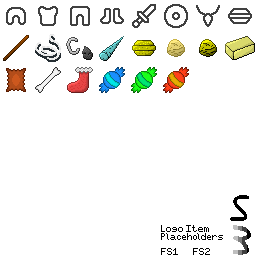
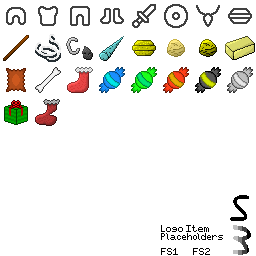
Turn 52 Extras
- added more icons
- changed weather icon to use the new snowing icon instead of a raining icon
- added more items, including items meant to be used after christmas
- it's 2am i'm going to bed

Changed region(s): [[0.0, 0.375, 0.25, 0.5], [0.875, 0.25, 1.0, 0.375], [0.75, 0.25, 0.875, 0.375]]

diff --git a/js_lists/equipList.js b/js_lists/equipList.js
@@ -233,8 +233,11 @@ var equiplist = [ //[name, css class for icon, description, source, bonuses]
     ["7 Fuel Units", "fuel_outline", "This recipe requires <b>7</b> units of fuel.", "", ""], //231
     ["8 Fuel Units", "fuel_outline", "This recipe requires <b>8</b> units of fuel.", "", ""], //232
     ["Christmas Stocking", "stocking", "A stocking for Christmas. Hang it up during your turn to get extra rewards!", "Christmas", "Hang it up"], //233
-    ["Effect Candy", "blue_candy", "A small piece of candy, wrapped in a blue wrapper. Eat it to gain a random positive effect!", "Christmas", "Consume for one of the following: Regen, Attack Up, Defense Up"], //234
-    ["Skill Candy", "green_candy", "A small piece of candy, wrapped in a green wrapper. Eat it to gain 300% in a random skill!", "Christmas", "Consume for 300% in a random skill you have that is below level 5"], //235
-    ["Item Candy", "red_candy", "A small piece of candy, wrapped in a red wrapper. Eat it to gain a random item!", "Christmas", "Consume for a random item (see Info)"], //236
+    ["Effect Candy", "blue_candy", "A small piece of candy, wrapped in a blue wrapper. Eat it to gain a random positive effect!", "Events", "Consume for one of the following: Regen, Attack Up, Defense Up"], //234
+    ["Skill Candy", "green_candy", "A small piece of candy, wrapped in a green wrapper. Eat it to gain 300% in a random skill!", "Events", "Consume for 300% in a random skill you have that is below level 5"], //235
+    ["Item Candy", "red_candy", "A small piece of candy, wrapped in a red wrapper. Eat it to gain a random item!", "Events", "Consume for a random item (see Info)"], //236
     ["Mystery Gift", "gift_box", "A gift in a box. It could be anything!", "Item Candy", "Open it to gain a random item out of all the items currently in the game"], //237
+    ["Time Candy", "black_candy", "A small piece of candy, wrapped in a black and yellow wrapper. If you have this in your inventory, you'll be allowed three posts in a turn, instead of two!", "Unknown", "Holding this item allows one extra post in a turn (consumed during extra post)"], //238
+    ["Old Candy", "gray_candy", "A small piece of old candy. The color on the wrapper has faded away, so you can't tell what kind of candy this was.", "Old Stocking", "Consume for a reduced version of a different candy's effect"], //239
+    ["Old Christmas Stocking", "old_stocking", "An old stocking for Christmas. It's too late to hang it up, but there might still be something inside...", "Post-Christmas", "Hang it up"], //233
 ]

diff --git a/icons.css b/icons.css
@@ -911,6 +911,22 @@ span.small_icon {
     background-image: url("Icons/Exported/misc_sheet.png");
     background-position: -160px -64px;
 }
+.black_candy {
+    background-image: url("Icons/Exported/misc_sheet.png");
+    background-position: -192px -64px;
+}
+.gray_candy {
+    background-image: url("Icons/Exported/misc_sheet.png");
+    background-position: -224px -64px;
+}
+.gift_box {
+    background-image: url("Icons/Exported/misc_sheet.png");
+    background-position: -0px -96px;
+}
+.old_stocking {
+    background-image: url("Icons/Exported/misc_sheet.png");
+    background-position: -32px -96px;
+}
 /* info (large) */
 .yes, .passed {
     background-image: url("Icons/Exported/info_sheet.png");
@@ -968,6 +984,10 @@ span.small_icon {
 .rain, .rainy {
     background-image: url("Icons/Exported/info_sheet.png");
     background-position: -240px -16px;
+}
+.snow, .snowy {
+    background-image: url("Icons/Exported/info_sheet.png");
+    background-position: -208px -32px;
 }
 .day {
     background-image: url("Icons/Exported/info_sheet.png");

diff --git a/3/allpages.js b/3/allpages.js
@@ -7,7 +7,7 @@ var headerLinks = {
     "3": [["Info", "info"],["Inventories", "inventories"],["Stats", "stats"],["Structures", "structures"],["Voting", "voting"],["Gardens", "gardens"],["Quests","quests"],["Mobs","mobs"]],
     "i": [["All Items", "creative"],["Crafting", "crafting"],["Encyclopedia", "help"]]
 }
-var timeboxInfo = [52, "dawn", "rainy", "Dawn", "Snowing"]
+var timeboxInfo = [52, "dawn", "snowy", "Dawn", "Snowing"]
 
 var headerCont = '<div class="header"><span class="small_icon fs3" style="position:absolute;left:4px;top:4px;" title="FS3"></span>'
 for (var i in headerLinks["3"]) {headerCont += '\n<a href="' + headerLinks["3"][i][1] + '.html">' + headerLinks["3"][i][0] + '</a>'}

diff --git a/3/info.html b/3/info.html
@@ -408,7 +408,9 @@
                 <td>1 Item Candy</td>
                 <td>1 Skill Candy</td>
                 <td>1 Effect Candy</td>
+                <td>1 Time Candy</td>
                 <td>1 Mystery Gift</td>
+                <td>Nothing</td>
             </tr>
         </table>
         <div class="tooltip_body"></div>
